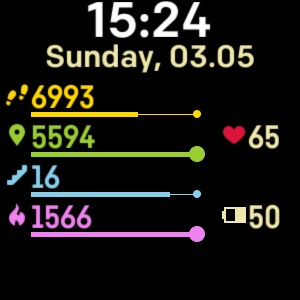
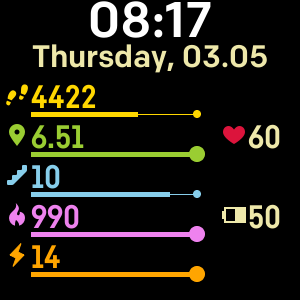
0.1.9 release changes

diff --git a/AcidClock-export/app/index.js b/AcidClock-export/app/index.js
@@ -48,15 +48,27 @@ let goalTypes = [
   "steps",
   "distance",
   "elevationGain",
-  "calories"
+  "calories",
+  "activeMinutes"
 ];
 
 let progressEls = [];
 
-for(var i=0; i < goalTypes.length; i++) {
+for (var i=0; i < goalTypes.length; i++) {
   var goalType = goalTypes[i];
   progressEls.push(getProgressEl(goalType)); 
 }  
+
+let root = document.getElementById('root')
+const screenHeight = root.height //250 - Ionic, 300 - Versa
+const screenWidth = root.width
+
+let isLongScreen = screenHeight >= 300;
+
+if (!isLongScreen) {
+  progressEls[4].container.style.display = "none";
+}
+
 
 let timeEl = document.getElementById("time");
 let dateEl = document.getElementById("date"); 
@@ -177,13 +189,13 @@ let drawTime = function(now) {
 }
 
 var drawAllProgress = function() {
-  for(var i=0; i < goalTypes.length; i++) {  
+  for (var i=0; i < goalTypes.length; i++) {  
     drawProgress(progressEls[i]);
   }
 }
 
 var resetProgressPrevState = function() {
-  for(var i=0; i < goalTypes.length; i++) {  
+  for (var i=0; i < goalTypes.length; i++) {  
     progressEls[i].prevProgressVal = null;
   }
 }

diff --git a/AcidClock-export/settings/index.jsx b/AcidClock-export/settings/index.jsx
@@ -35,6 +35,13 @@ function mySettings(props) {
   {color: 'palegoldenrod'},  
   {color: 'navy'},
     
+  {color: 'deeppink'},
+  {color: 'royalblue'},
+  {color: 'orangered'},
+  {color: 'greenyellow'}, 
+  {color: 'tomato'},  
+  {color: 'forestgreen'},
+    
   {color: '#00163a'},
   {color: '#21003a'},
   {color: '#3a1d00'},
@@ -114,6 +121,13 @@ function mySettings(props) {
         title="Calories color">
         <ColorSelect
           settingsKey="caloriesColor"
+          colors={colorSet} />
+      </Section>
+      
+      <Section
+        title="Active Minutes color">
+        <ColorSelect
+          settingsKey="activeMinutesColor"
           colors={colorSet} />
       </Section>
       

diff --git a/AcidClock-export/resources/styles.css b/AcidClock-export/resources/styles.css
@@ -42,6 +42,11 @@
 #calories  {
   transform: translate(5,203)
 }
+#activeMinutes {
+  transform: translate(5,243)
+}
+
+
 
 
 #date {
@@ -134,6 +139,9 @@
   fill: violet;
 }
 
+#activeMinutes {
+  fill: orange;
+}
 
 #hr-icon-systole {
   fill: crimson;
